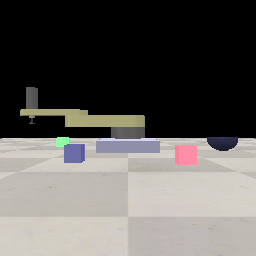
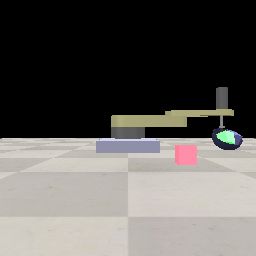
Modificacion README y comentarios app

Changed region(s): [[0.5625, 0.3438, 0.9688, 0.5938], [0.0625, 0.3438, 0.4375, 0.5], [0.2188, 0.5312, 0.3438, 0.6562]]

diff --git a/app.py b/app.py
@@ -19,6 +19,7 @@ import time
 warnings.filterwarnings("ignore", category=DeprecationWarning)
 
 def connect_coppeliaSim():
+    """Conect to scene CoppeliaSim"""
     try:
         port=19999
         sim.simxFinish(-1) 
@@ -34,6 +35,7 @@ def connect_coppeliaSim():
         return None
 
 def get_image(label_vision_sensor):
+    """Get iamge from scene CoppeliaSim"""
     _, vision_sensor =sim.simxGetObjectHandle(st.session_state.clientID, label_vision_sensor, sim.simx_opmode_blocking)  # Vision sensor
     returnCode, resolution, image = sim.simxGetVisionSensorImage(st.session_state.clientID, vision_sensor, 0, sim.simx_opmode_blocking)
 
@@ -46,10 +48,13 @@ def get_image(label_vision_sensor):
 
 @dataclass
 class Message:
+    """Util class to organize conversation"""
     origin: Literal["human", "ai"]
     message: str
 
 def initialize_session():
+    """Initialize session variables"""
+
     if "history" not in st.session_state:        
         st.session_state['history'] = []
     if 'current_index' not in st.session_state:
@@ -213,6 +218,7 @@ def initialize_session():
         st.session_state.agent = agent
 
 def image_to_base64(path_image):
+    """change an image to base64 form"""
     image = Image.open(path_image)
     img_buffer = BytesIO()
     image.save(img_buffer, format="PNG")
@@ -299,6 +305,8 @@ def drop_object() -> None:
     st.session_state.number_objectParent = None
 
 def on_click_callback():
+    """Manage inputs from user"""
+
     if st.session_state.clientID is None:
         st.session_state.clientID = connect_coppeliaSim()
         if st.session_state.clientID is not None:
@@ -318,8 +326,22 @@ def on_click_callback():
         else:
             with col2_c1:
                 st.warning("You must initialize CoppeliaSim for it to work", icon="ℹ")
+    else:
+        with col2_c1:
+            st.info("Connected with CoppeliaSim", icon="ℹ")
+
+            with st.spinner("Parsing text input..."):
+                human_prompt = st.session_state.human_prompt
+                st.session_state.history.append(Message("human", human_prompt))
+                response = st.session_state.agent.chat(human_prompt)
+                st.session_state.history.append(Message("ai", response))
+                st.session_state.human_prompt = ""
+                get_image('CAM_1')
+                get_image('CAM_2')
+                get_image('CAM_3')
 
 def load_css():
+    """Load styles css"""
     css = """
     .block-container {
         padding-top: 0;
@@ -418,10 +440,6 @@ def load_css():
     """
     st.markdown(f'<style>{css}</style>', unsafe_allow_html=True)
 
-    # with open(".streamlit/styles.css", "r") as f:
-    #     css = f"<style>{f.read()}</style>"
-    #     st.markdown(css, unsafe_allow_html=True)
-
 initialize_session()
 
 st.set_page_config(layout='wide', initial_sidebar_state="expanded", page_title="LLRAM", page_icon="💡")
@@ -488,7 +506,6 @@ with col1_c1:
                 """, unsafe_allow_html=True)
             
         with col2_c1_2:
-            # Mostrar la imagen actual
             st.markdown(
                 f"""
                 <div class="image-container">

diff --git a/README.md b/README.md
@@ -6,6 +6,10 @@ The **Large Language Robotic Arm Model (LLRM)** represents a cutting-edge advanc
 
 LLRM enables intuitive voice or text-based control over robotic movements, processing natural language commands into precise, real-time actions, and adapting to dynamic environments. This flexibility makes it ideal for applications in manufacturing and automation, where efficiency and adaptability are essential. Designed for the **NVIDIA and LlamaIndex Developer Contest**, LLRM showcases a powerful fusion of AI and robotics for real-world utility and enhanced user engagement.
 
+[Promotional video](https://www.youtube.com/watch?v=imV_XEKuHHY)
+[Functional video](https://youtu.be/bN-aVxDIASw)
+
+
 ---
 
 ## About Me
